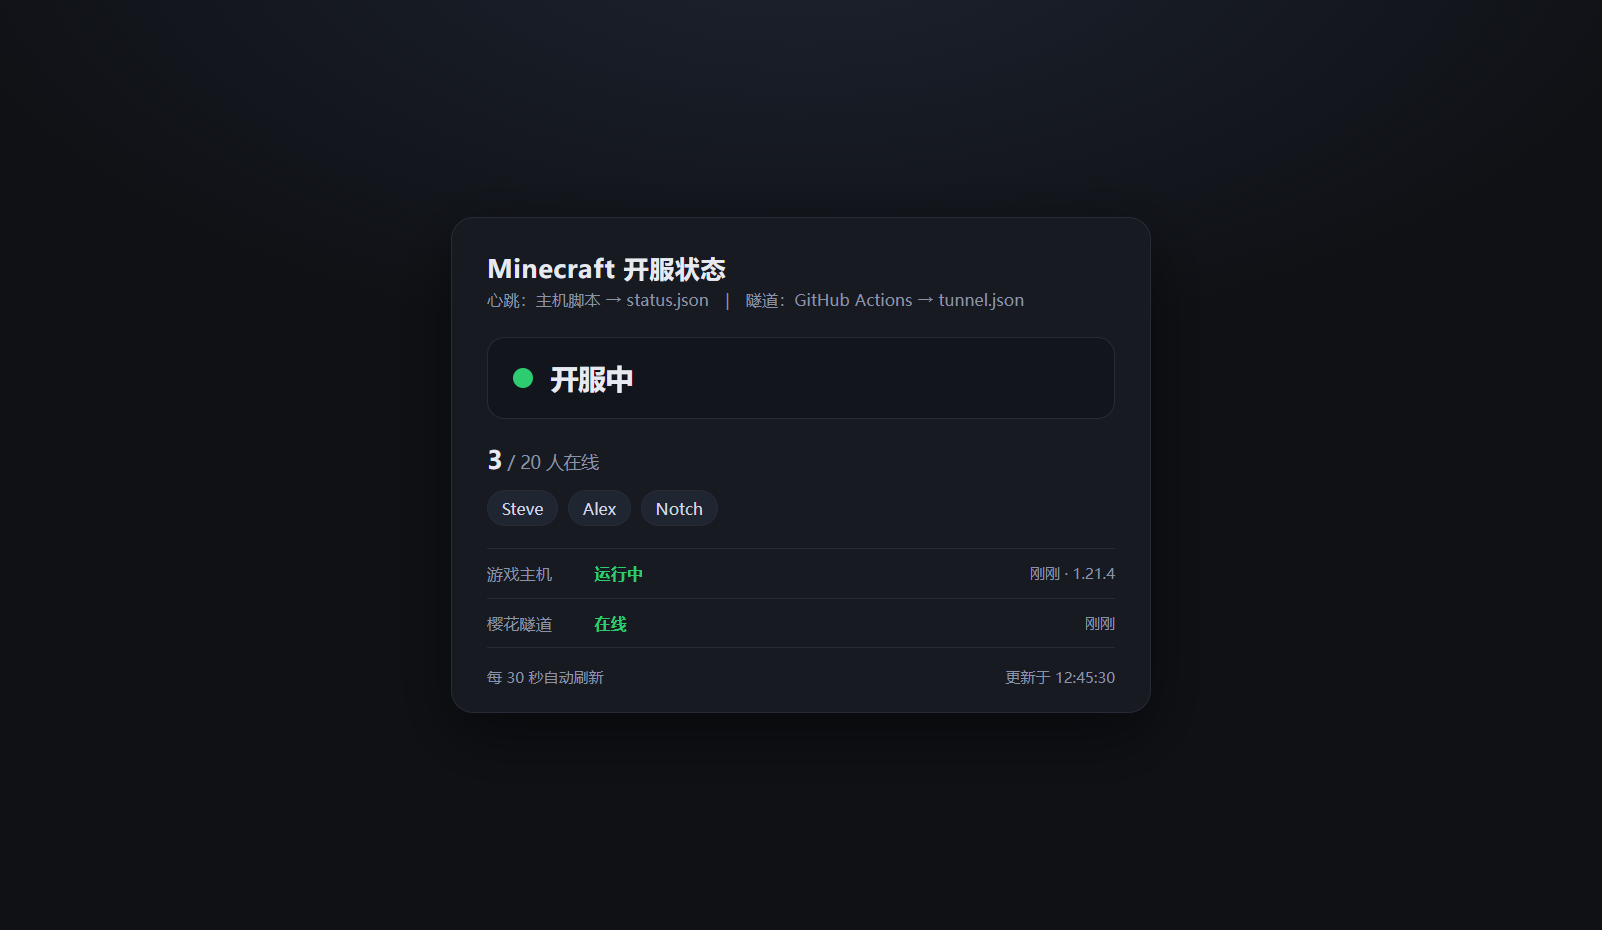
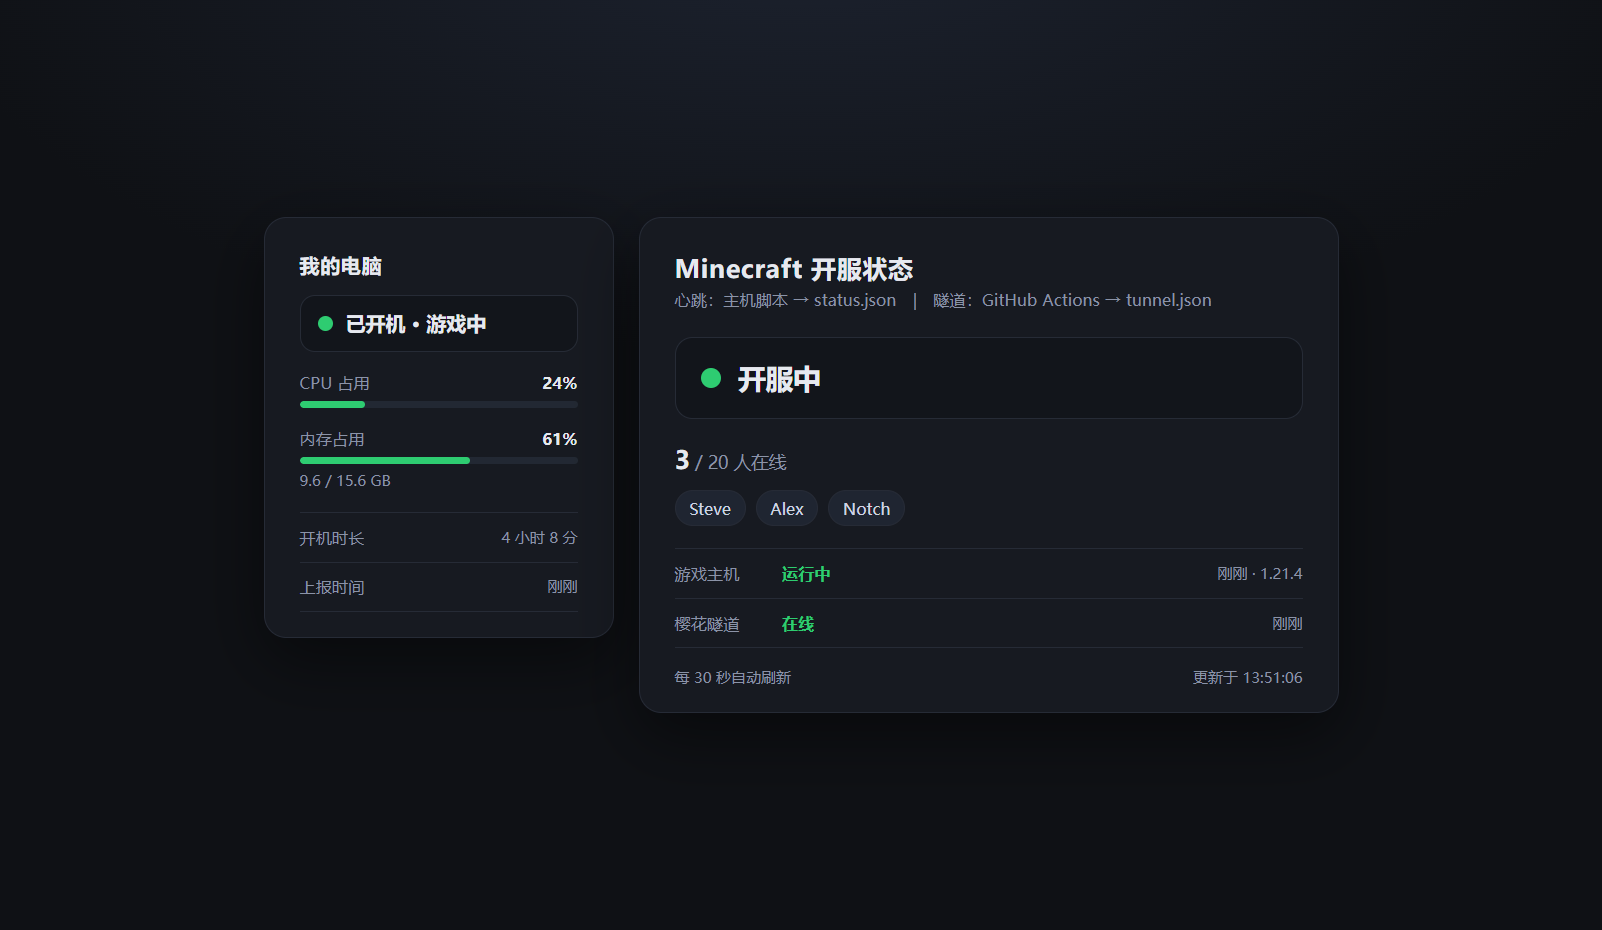
chore: 同步 2 个文件

diff --git a/tools/deploy.js b/tools/deploy.js
@@ -188,6 +188,26 @@ const contentPath = (rel) => '/contents/' + rel.split('/').map(encodeURIComponen
     else console.error(`✗ 触发工作流失败：HTTP ${r.status} ${r.json?.message || ''}（需要令牌有 Actions: Read and write）`);
   }
 
+  // --delete 路径：删除仓库里的文件（可写多次），用于清理已废弃的文件
+  const deleteTargets = [];
+  args.forEach((a, i) => {
+    if (a === '--delete' && args[i + 1]) deleteTargets.push(args[i + 1]);
+  });
+  for (const rel of deleteTargets) {
+    const existing = await api(`/repos/${owner}/${REPO_NAME}${contentPath(rel)}?ref=${branch}`, token);
+    if (!existing.ok) {
+      console.log(`• 远端不存在，跳过删除：${rel}`);
+      continue;
+    }
+    const del = await api(`/repos/${owner}/${REPO_NAME}${contentPath(rel)}`, token, {
+      method: 'DELETE',
+      headers: { 'Content-Type': 'application/json' },
+      body: JSON.stringify({ message: `chore: 删除 ${rel}`, sha: existing.json.sha, branch })
+    });
+    if (del.ok) console.log(`✓ 已删除远端文件 ${rel}`);
+    else console.error(`✗ 删除失败 ${rel}：HTTP ${del.status} ${del.json?.message || ''}`);
+  }
+
   const { files: fileList, ignored } = walk(root, root);
   const files = fileList.sort();
   console.log(`\n将同步 ${files.length} 个文件：`);
